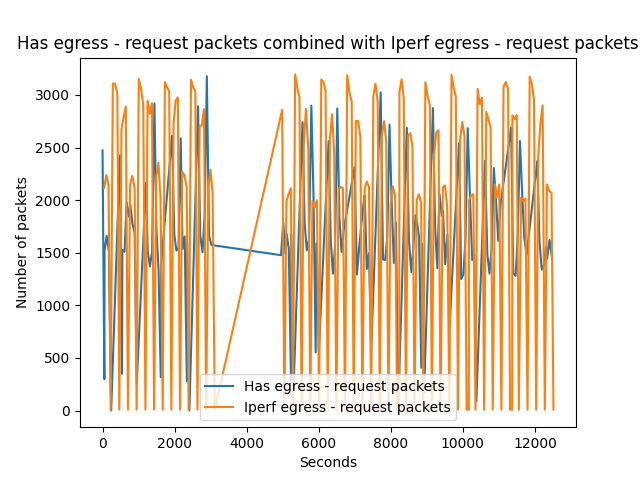
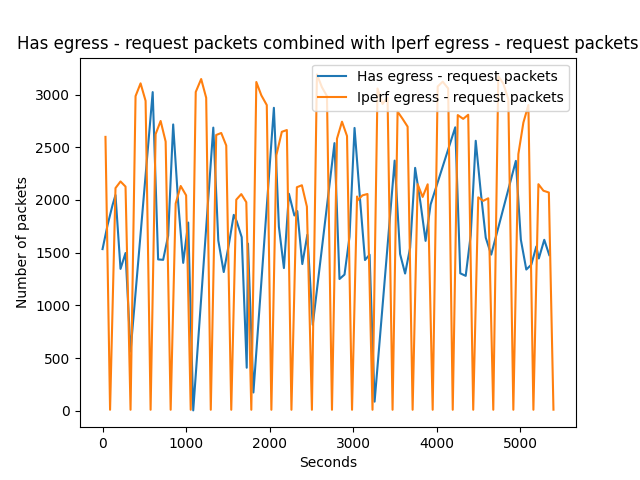
fix: remove data that sees to be from 1.4

diff --git a/1.5/graph.py b/1.5/graph.py
@@ -34,7 +34,7 @@ def formatLine(line):
     return line.strip().split()
 
 
-fileData = [formatLine(x) for x in fileStream.readlines()][:1000]
+fileData = [formatLine(x) for x in fileStream.readlines()][500:1000]
 
 fileStream.close()
 
